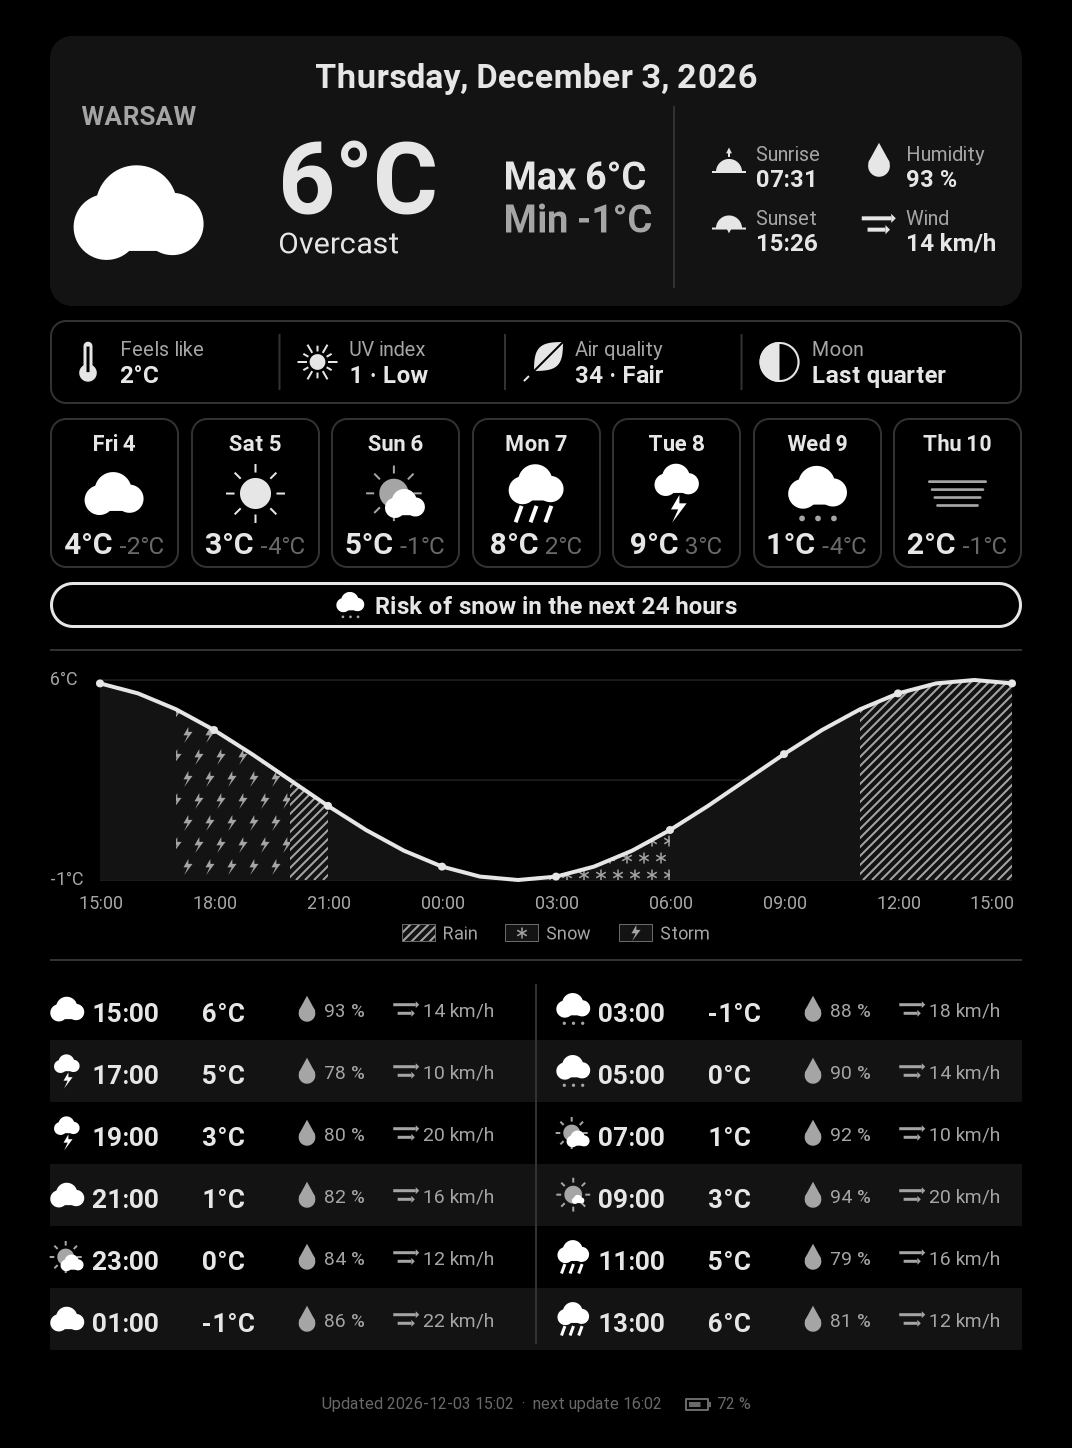
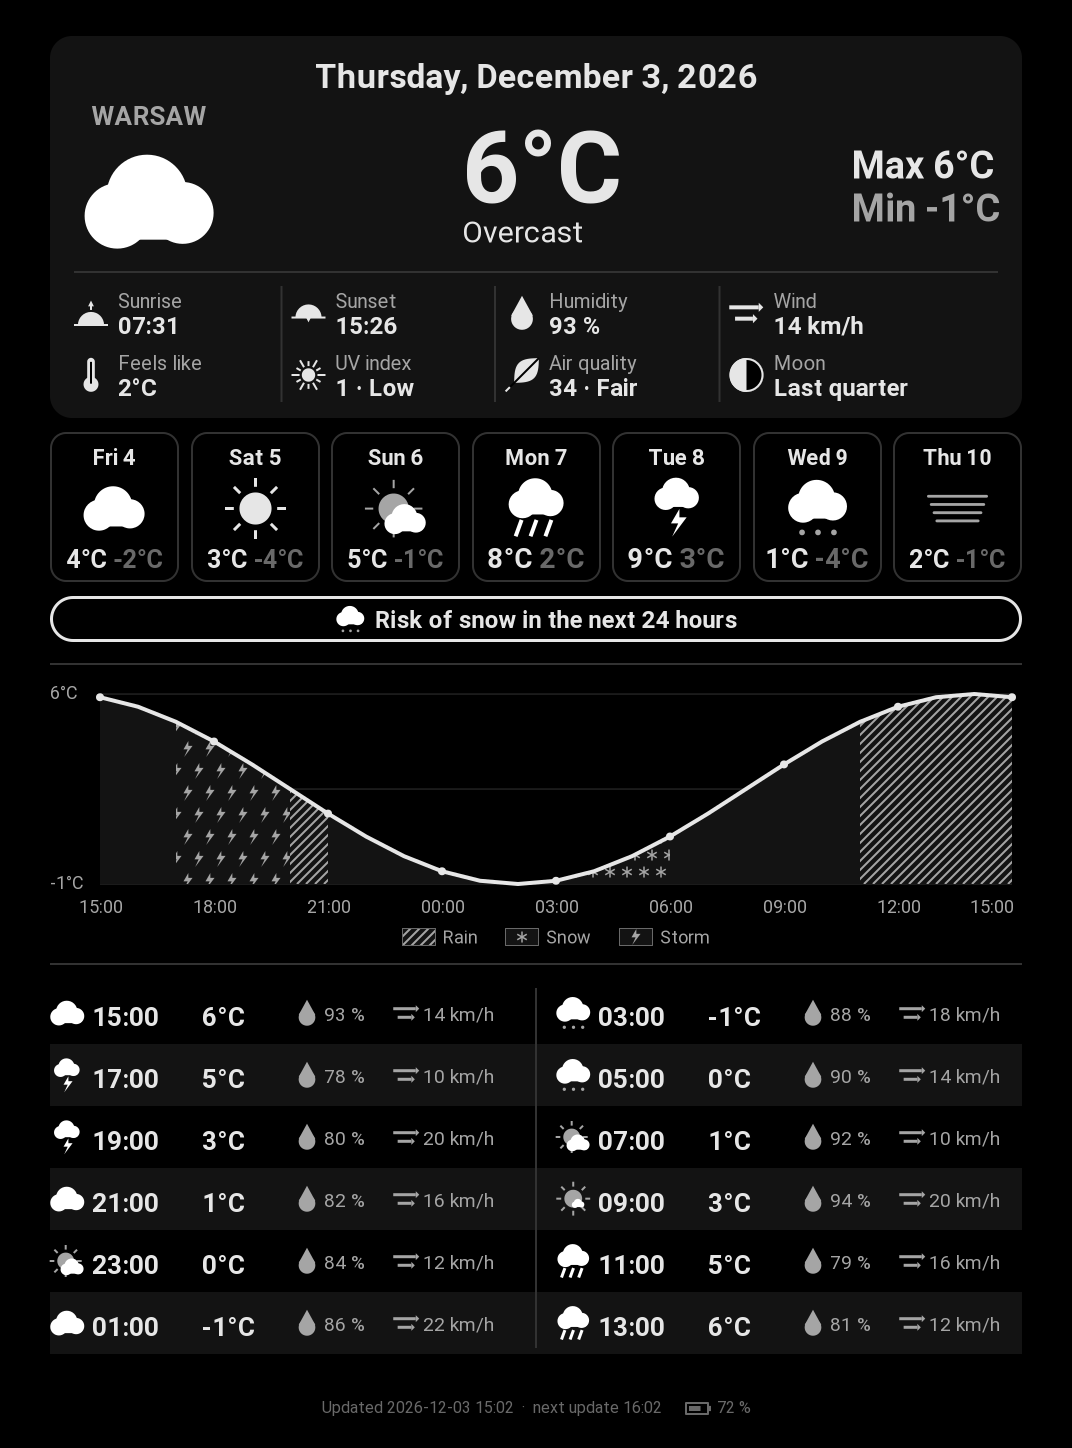
Gather every detail in one grid in today's card, and give the week's min the max's size
- Sunrise, sunset, humidity, wind, feels-like, UV index, air quality and moon
  phase form two rows of four under the current weather, in the same card,
  with columns aligned across both rows; the current weather gets the whole
  width above them.
- The next 7 days show their max and min in the same bold size, the min in
  gray, with more margin in the boxes.

Claude-Session: https://claude.ai/code/session_01ArRJHWoxrTZihEERid19vz

diff --git a/kindleweather/lib/kindle_weather/render.py b/kindleweather/lib/kindle_weather/render.py
@@ -48,13 +48,12 @@ FONT_SPECS = {
     "panel_label": (ROBOTO, 20),
     "panel_value": (ROBOTO_BOLD, 24),
     "day": (ROBOTO_BOLD, 22),
-    "day_temperature": (ROBOTO_BOLD, 30),
+    "day_temperature": (ROBOTO_BOLD, 28),
     "banner": (ROBOTO_BOLD, 24),
     "axis": (ROBOTO, 18),
     "row": (ROBOTO_BOLD, 26),
     "row_small": (ROBOTO, 19),
     "footer": (ROBOTO, 16),
-    "day_min": (ROBOTO, 24),
 }
 
 # Upper bounds of the UV index levels (low, moderate, high, very high; then
@@ -80,9 +79,9 @@ class Layout:
 
     size: tuple[int, int]
     top: int
-    card_height: int
-    panel_width: int
-    details_height: int
+    # Today's card: the current weather, then two rows of details.
+    main_height: int
+    detail_row_height: int
     days_height: int
     chart_height: int
     table_columns: int
@@ -95,11 +94,10 @@ LAYOUTS = {
     "portrait": Layout(
         size=(1072, 1448),
         top=36,
-        card_height=270,
-        panel_width=300,
-        details_height=84,
+        main_height=160,
+        detail_row_height=62,
         days_height=150,
-        chart_height=200,
+        chart_height=190,
         table_columns=2,
         row_height=62,
         column_gap=40,
@@ -108,11 +106,10 @@ LAYOUTS = {
     "landscape": Layout(
         size=(1448, 1072),
         top=28,
-        card_height=250,
-        panel_width=520,
-        details_height=76,
+        main_height=140,
+        detail_row_height=56,
         days_height=130,
-        chart_height=90,
+        chart_height=80,
         table_columns=3,
         row_height=48,
         column_gap=24,
@@ -277,7 +274,6 @@ class _Dashboard:
 
     def render(self, battery: int | None) -> Picture:
         y = self._summary(self.layout.top)
-        y = self._details_strip(y + 14)
         if self.forecast.upcoming_days:
             y = self._upcoming_days(y + 14)
         y = self._precipitation_banner(y + 14)
@@ -297,52 +293,51 @@ class _Dashboard:
         self.draw.line([(MARGIN, y), (self.width - MARGIN, y)], fill=GRAY_LIGHT, width=2)
 
     def _summary(self, top: int) -> int:
-        """Today's card: date on top; city and the current weather, temperature, the day's
-        min and max; details panel."""
-        draw, fonts, forecast = self.draw, self.fonts, self.forecast
-        bottom = top + self.layout.card_height
-        panel_width, padding = self.layout.panel_width, 24
+        """Today's card: the date; the current weather with the day's max and min;
+        then two rows of details, from sunrise to the moon phase."""
+        draw, fonts, forecast, layout = self.draw, self.fonts, self.forecast, self.layout
+        main_top = top + 70
+        main_bottom = main_top + layout.main_height
+        grid_top = main_bottom + 16
+        bottom = grid_top + 2 * layout.detail_row_height + 12
         draw.rounded_rectangle(
             [MARGIN, top, self.width - MARGIN, bottom], radius=22, fill=GRAY_PALE
         )
         date = self.locale.format_long_date(forecast.observed_at)
         draw_centered_text(draw, self.width // 2, top + 20, date, fonts["date"], INK)
+        left, right = MARGIN + 24, self.width - MARGIN - 24
+        center_y = (main_top + main_bottom) / 2
 
-        body_top, body_bottom = top + 70, bottom - 18
-        center_y = (body_top + body_bottom) // 2
-        divider_x = self.width - MARGIN - panel_width - 2 * padding
-        draw.line([(divider_x, body_top), (divider_x, body_bottom)], fill=GRAY_LIGHT, width=2)
-        left, right = MARGIN + padding, divider_x - padding
-
+        # The city over the weather icon, on the left.
         place = forecast.place_name.upper()
         place_box = draw.textbbox((0, 0), place, font=fonts["location"])
-        place_column = max(130, place_box[2] - place_box[0])
+        place_column = max(150, place_box[2] - place_box[0])
         draw_centered_text(
             draw,
             left + place_column / 2,
-            body_top - place_box[1],
+            main_top - place_box[1],
             place,
             fonts["location"],
             GRAY_DARK,
         )
-        icon_top = body_top + place_box[3] - place_box[1] + 12
+        icon_top = main_top + place_box[3] - place_box[1] + 12
         self.icons.draw(
-            draw, forecast.current.weather_code, (left, icon_top, left + place_column, body_bottom)
+            draw, forecast.current.weather_code, (left, icon_top, left + place_column, main_bottom)
         )
 
-        unit = forecast.temperature_unit
-        max_text = f"Max {round(forecast.today.temperature_max)}{unit}"
-        min_text = f"Min {round(forecast.today.temperature_min)}{unit}"
+        # The day's max and min, on the right.
+        max_text = f"Max {self._temperature(forecast.today.temperature_max)}"
+        min_text = f"Min {self._temperature(forecast.today.temperature_min)}"
         min_max_width = max(text_width(draw, t, fonts["min_max"]) for t in (max_text, min_text))
         min_max_x = right - min_max_width
         min_max = [(max_text, fonts["min_max"], INK), (min_text, fonts["min_max"], GRAY_DARK)]
         self._text_stack(min_max_x, center_y, min_max, 14)
 
-        # Temperature and description, centered between the city column and min/max.
-        temperature = f"{round(forecast.current.temperature)}{unit}"
+        # The temperature and description, centered between them; both shrink
+        # if needed, such as for "-12°C" or a long description.
+        temperature = self._temperature(forecast.current.temperature)
         description = self.locale.describe(forecast.current.weather_code)
         space_left, space_right = left + place_column + 30, min_max_x - 30
-        # Both shrink if needed, such as for "-12°C" or a long description.
         space = space_right - space_left
         temperature_font = _shrink_to_fit(draw, temperature, fonts["temperature"], space)
         description_font = _shrink_to_fit(draw, description, fonts["description"], space)
@@ -354,7 +349,8 @@ class _Dashboard:
         main = [(temperature, temperature_font, INK), (description, description_font, INK)]
         self._text_stack(block_x, center_y, main, 18)
 
-        self._details_panel(divider_x + padding, center_y, panel_width)
+        draw.line([(left, main_bottom + 6), (right, main_bottom + 6)], fill=GRAY_LIGHT, width=2)
+        self._details_grid(left, right, grid_top)
         return bottom
 
     def _text_stack(self, x: float, center_y: float, lines, gap: int) -> None:
@@ -366,98 +362,82 @@ class _Dashboard:
             self.draw.text((x, y - box[1]), text, font=font, fill=fill)
             y += height + gap
 
-    def _details_panel(self, left: int, center_y: int, width: int) -> None:
-        labels = self.locale.labels
-        # Sunrise and sunset of the day, humidity and wind of the hour in progress.
-        humidity = round(self.forecast.current.humidity)
-        wind = round(self.forecast.current.wind_speed)
-        # Row by row: sunrise and humidity, then sunset and wind.
-        cells = (
-            (labels["sunrise"], self._clock_time(self.forecast.sunrise), "sunrise"),
-            (labels["humidity"], f"{humidity} %", "humidity"),
-            (labels["sunset"], self._clock_time(self.forecast.sunset), "sunset"),
-            (labels["wind"], f"{wind} {self.forecast.wind_unit}", "wind"),
-        )
-        cell_height, icon_size, inset = 64, 34, 14
-        top = center_y - (cell_height + 50) // 2
-        # Fixed grid so icons and labels stay aligned across rows of different text widths.
-        for i, (label, value, kind) in enumerate(cells):
-            row, column = divmod(i, 2)
-            cell_left = left + column * (width // 2)
-            y = top + row * cell_height
-            icon_left, icon_top = cell_left + inset, y + 20 - icon_size // 2
-            self.icons.draw(
-                self.draw, kind, (icon_left, icon_top, icon_left + icon_size, icon_top + icon_size)
-            )
-            text_x = icon_left + icon_size + 10
-            self.draw.text((text_x, y + 2), label, font=self.fonts["panel_label"], fill=GRAY_DARK)
-            self.draw.text((text_x, y + 24), value, font=self.fonts["panel_value"], fill=INK)
-
-    def _details_strip(self, top: int) -> int:
-        """Feels like, UV index, air quality and moon phase, each with its icon."""
+    def _details_grid(self, left: float, right: float, top: float) -> None:
+        """Two rows of four details, each an icon over its label and value."""
         forecast, labels, locale = self.forecast, self.locale.labels, self.locale
-        height = self.layout.details_height
-        self.draw.rounded_rectangle(
-            [MARGIN, top, self.width - MARGIN, top + height], radius=16, outline=GRAY_LIGHT, width=2
-        )
-        uv = forecast.uv_index
-        air = forecast.air_quality
+        current = forecast.current
+        uv, air = forecast.uv_index, forecast.air_quality
         phase = round(moon_phase(forecast.observed_at.date()) * 8) % 8
         # The moon's lit part must end up light: black before the dark theme
         # inverts the picture. Half a cycle later, the shadow has the lit
         # part's shape.
         moon_icon = (phase + 4) % 8 if self.dark != self.icons.moon_draws_lit else phase
-        cells = (
-            ("feels_like", labels["feels_like"], self._temperature(forecast.current.feels_like)),
+        rows = (
             (
-                "uv",
-                labels["uv"],
-                "—" if uv is None else f"{round(uv)} · {locale.uv_levels[_level(uv, UV_LEVELS)]}",
+                ("sunrise", labels["sunrise"], self._clock_time(forecast.sunrise)),
+                ("sunset", labels["sunset"], self._clock_time(forecast.sunset)),
+                ("humidity", labels["humidity"], f"{round(current.humidity)} %"),
+                ("wind", labels["wind"], f"{round(current.wind_speed)} {forecast.wind_unit}"),
             ),
             (
-                "air",
-                labels["air"],
-                "—" if air is None else f"{air} · {locale.air_levels[_level(air, AIR_LEVELS)]}",
+                ("feels_like", labels["feels_like"], self._temperature(current.feels_like)),
+                (
+                    "uv",
+                    labels["uv"],
+                    "—"
+                    if uv is None
+                    else f"{round(uv)} · {locale.uv_levels[_level(uv, UV_LEVELS)]}",
+                ),
+                (
+                    "air",
+                    labels["air"],
+                    "—" if air is None else f"{air} · {locale.air_levels[_level(air, AIR_LEVELS)]}",
+                ),
+                (f"moon{moon_icon}", labels["moon"], locale.moon_phases[phase]),
             ),
-            (f"moon{moon_icon}", labels["moon"], locale.moon_phases[phase]),
         )
-        # Each cell as wide as its text needs, plus an equal share of the rest:
-        # a long moon phase name gets the room a short temperature leaves.
-        icon_size, middle, padding = 40, top + height / 2, 18 + 40 + 12 + 12
+
+        # Columns as wide as their widest cell, plus an equal share of the
+        # rest: the cells line up in both rows, and a long moon phase name
+        # keeps its size.
         label_font, value_font = self.fonts["panel_label"], self.fonts["panel_value"]
-        needs = [
-            padding
-            + max(
+        icon_size, gap, padding = 34, 10, 20
+
+        def need(cell) -> float:
+            _, label, value = cell
+            words = max(
                 text_width(self.draw, label, label_font), text_width(self.draw, value, value_font)
             )
-            for _, label, value in cells
-        ]
-        room = self.width - 2 * MARGIN
-        spare = room - sum(needs)
-        widths = [
-            need + spare / len(cells) if spare > 0 else need * room / sum(needs) for need in needs
-        ]
-        left = MARGIN
-        for i, ((icon, label, value), cell_width) in enumerate(zip(cells, widths)):
-            if i:
+            return icon_size + gap + words + padding
+
+        needs = [max(need(row[column]) for row in rows) for column in range(4)]
+        room, spare = right - left, right - left - sum(needs)
+        widths = [need + spare / 4 if spare > 0 else need * room / sum(needs) for need in needs]
+        row_height = self.layout.detail_row_height
+        x = left
+        for column, width in enumerate(widths):
+            if column:
                 self.draw.line(
-                    [(left, top + 14), (left, top + height - 14)], fill=GRAY_LIGHT, width=2
+                    [(x - padding / 2, top + 4), (x - padding / 2, top + 2 * row_height - 4)],
+                    fill=GRAY_LIGHT,
+                    width=2,
                 )
-            icon_left = left + 18
-            self.icons.draw(
-                self.draw,
-                icon,
-                (icon_left, middle - icon_size / 2, icon_left + icon_size, middle + icon_size / 2),
-            )
-            text_x = icon_left + icon_size + 12
-            space = left + cell_width - 12 - text_x
-            fitted_label = _shrink_to_fit(self.draw, label, label_font, space)
-            fitted_value = _shrink_to_fit(self.draw, value, value_font, space)
-            # Fixed lines, as in the details panel, so that the cells line up.
-            self.draw.text((text_x, middle - 25), label, font=fitted_label, fill=GRAY_DARK)
-            self.draw.text((text_x, middle - 2), value, font=fitted_value, fill=INK)
-            left += cell_width
-        return top + height
+            for row_index, row in enumerate(rows):
+                icon, label, value = row[column]
+                middle = top + row_index * row_height + row_height / 2
+                self.icons.draw(
+                    self.draw,
+                    icon,
+                    (x, middle - icon_size / 2, x + icon_size, middle + icon_size / 2),
+                )
+                text_x = x + icon_size + gap
+                space = x + width - padding - text_x
+                fitted_label = _shrink_to_fit(self.draw, label, label_font, space)
+                fitted_value = _shrink_to_fit(self.draw, value, value_font, space)
+                # Fixed lines, so that the cells line up.
+                self.draw.text((text_x, middle - 24), label, font=fitted_label, fill=GRAY_DARK)
+                self.draw.text((text_x, middle - 2), value, font=fitted_value, fill=INK)
+            x += width
 
     def _temperature(self, value: float) -> str:
         return f"{round(value)}{self.forecast.temperature_unit}"
@@ -477,13 +457,13 @@ class _Dashboard:
             )
             label = self.locale.format_short_date(day.date)
             draw_centered_text(self.draw, center_x, top + 12, label, date_font, INK)
-            # The max in bold black, the min lighter, side by side.
+            # The max in black and the min in gray, of the same size, side by side.
             high, low = (
                 self._temperature(day.temperature_max),
                 self._temperature(day.temperature_min),
             )
-            space = right - left - 16
-            high_font, low_font = self.fonts["day_temperature"], self.fonts["day_min"]
+            space = right - left - 28
+            high_font = low_font = self.fonts["day_temperature"]
             while (
                 text_width(self.draw, high, high_font) + 8 + text_width(self.draw, low, low_font)
                 > space

diff --git a/scripts/previews.py b/scripts/previews.py
@@ -29,8 +29,8 @@ NOW = datetime(2026, 12, 3, 15, 2, tzinfo=ZoneInfo(TIMEZONE))
 # Snow early in the morning, rain around noon, thunderstorm in the evening.
 HOURLY_CODES = [3, 3, 71, 73, 73, 71, 3, 2, 2, 1, 3, 61, 63, 63, 80, 3, 3, 95, 95, 96, 61, 3, 2, 2]
 DAYS = range(3, 11)
-# Rows of the portrait dashboard shown in the comparison: today, details, next days.
-COMPARISON_ROWS = (16, 578)
+# Rows of the portrait dashboard shown in the comparison: today and the next days.
+COMPARISON_ROWS = (16, 592)
 
 
 def sample_forecast():

diff --git a/README.md b/README.md
@@ -19,8 +19,8 @@ key is needed.
 ## Features
 
 - Now: weather, temperature, humidity and wind of the current hour, with the day's min, max, sunrise and sunset
-- Feels-like temperature, UV index, air quality and moon phase, each with its icon
-- The next 7 days, with their weather icon, max and min temperatures
+- Sunrise, sunset, humidity, wind, feels-like temperature, UV index, air quality and moon phase, in one grid with an icon each
+- The next 7 days, with their weather icon, max (black) and min (gray) temperatures
 - A precipitation alert for the next 24 hours: snow, thunderstorm or rain
 - A temperature chart and an hourly table for the next 24 hours, with rain, snow and thunderstorm hours shaded
 - Portrait or landscape, light or dark theme, metric or imperial units, 24-hour or 12-hour clock, three [icon sets](#icon-sets), eight [languages](#languages)
